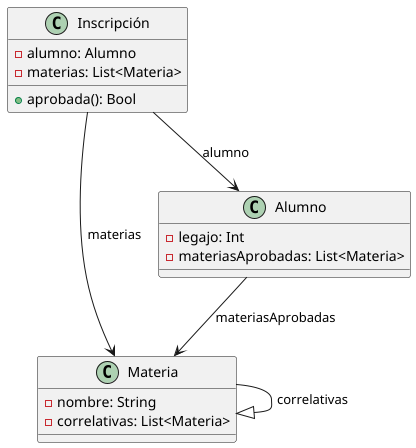
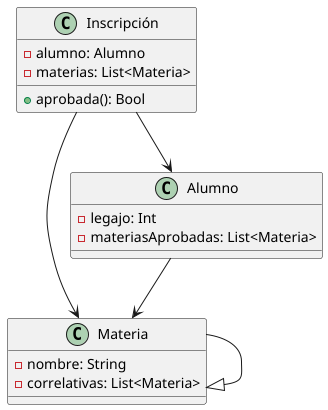
Arreglada la logica de inscripcion

diff --git a/src/main/java/validador/Inscripcion.java b/src/main/java/validador/Inscripcion.java
@@ -14,7 +14,8 @@ public class Inscripcion {
     public Boolean aprobada() {
         List<Materia> materiasAlumno = alumno.getMateriasAprobadas();
         for (Materia m : this.materias) {
-            if (!materiasAlumno.contains(m)) {
+            List<Materia> correlativas = m.getCorrelativas();
+            if (!materiasAlumno.containsAll(correlativas)) {
                 return false;
             }
         }
